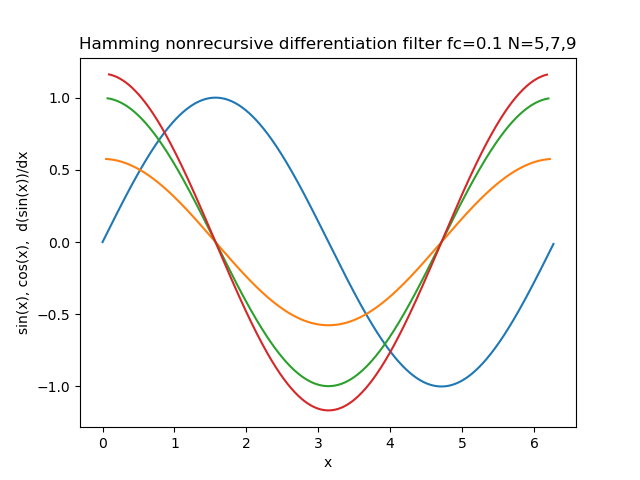
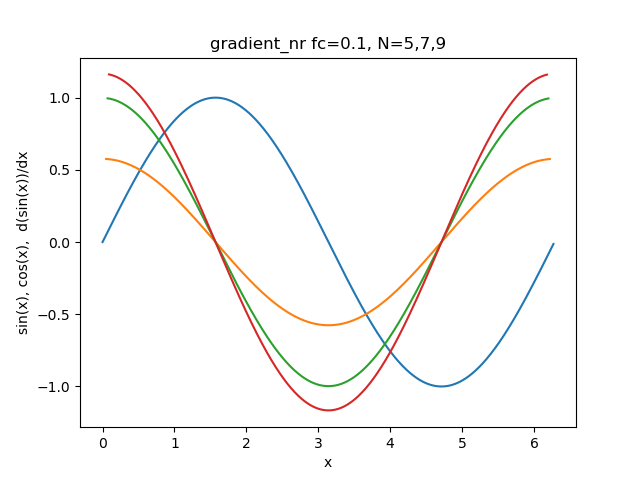
Update doc

Changed region(s): [[0.125, 0.0625, 0.9062, 0.125]]

diff --git a/doc/figures/fig_5_8_lowpass_nr.py b/doc/figures/fig_5_8_lowpass_nr.py
@@ -8,40 +8,76 @@ import numpy as np
 import matplotlib.pyplot as plt
 import math
 import random
+import io
+
+
+def print_to_string(x):
+    output = io.StringIO()
+    print("%.3f" % x, file=output, end='')
+    contents = output.getvalue()
+    output.close()
+    return contents
+
+
+def distance(x, y):
+    s = sum([(xi - yi) ** 2 for xi, yi in zip(x, y)])
+    return round(s / len(x) * 1000, 3)
+
+
+fc = 0.1
+nfp = 7
+nnfp = (2 * nfp)
+noise = 1 / 100
 
 dx = 0.01
 x = np.array([i * dx for i in range(2 * 314)])
 y = np.array([math.sin(xi) for xi in x])
 z = np.array([math.cos(xi) for xi in x])
 
-r = np.array([yi + (random.random() - 0.5) / 100 for yi in y])
-drdx_7 = hdfg.gradient_nr(r, dx, 0.1, 7)
+r = np.array([yi + (random.random() - 0.5) * noise for yi in y])
+dist_r = distance(y, r)
 
-s1 = hdfl.lowpass_nr(r, 0.1, 7)
-ds1dx_7 = hdfg.gradient_nr(s1, dx, 0.1, 7)
-s2 = hdfl.lowpass_nr(s1, 0.1, 7)
-ds2dx_7 = hdfg.gradient_nr(s2, dx, 0.1, 7)
+drdx = hdfg.gradient_nr(r, dx, fc, nfp)
+dist_d = distance(z[nfp:-nfp], drdx[nfp:-nfp])
 
-plt.title("Hamming nonrecursive differentiation filter fc=0.1 N=7")
+s1 = hdfl.lowpass_nr(r, fc, nfp)
+dist_s1 = distance(y, s1)
+
+ds1dx = hdfg.gradient_nr(s1, dx, fc, nfp)
+dist_d1 = distance(z[nnfp:-nnfp], ds1dx[nnfp:-nnfp])
+
+s2 = hdfl.lowpass_nr(s1, fc, nfp)
+dist_s2 = distance(y, s2)
+ds2dx = hdfg.gradient_nr(s2, dx, fc, nfp)
+dist_d2 = distance(z[nnfp:-nnfp], ds2dx[nnfp:-nnfp])
+
+plt.title("gradient_nr fc=0.1, N=7, dist f="
+          + print_to_string(dist_r) + ", dist df="
+          + print_to_string(dist_d))
 plt.xlabel("x")
-plt.ylabel("sin(x)+random()/50, cos(x),  d(sin(x))/dx")
-plt.plot(x, r, x, z, x[7:-7], drdx_7[7:-7])
+plt.ylabel("sin(x)+random()/100, cos(x), d(sin(x))/dx")
+plt.plot(x, r, x, z, x[nfp:-nfp], drdx[nfp:-nfp])
 plt.show()
 
-plt.title("Hamming Low-Pass filter fc=0.1 N=7")
+plt.title("lowpass_nr fc=0.1, N=7, dist f="
+          + print_to_string(dist_s1))
 plt.xlabel("x")
-plt.ylabel("sin(x)+random()/50")
-plt.plot(x, r, x, s1)
+plt.ylabel("sin(x)+random()/100")
+plt.plot(x, r, x[nfp:-nfp], s1[nfp:-nfp])
 plt.show()
 
-plt.title("Hamming nonrecursive differentiation filter fc=0.1 N=7")
+plt.title("gradient_nr fc=0.1, N=7, dist f="
+          + print_to_string(dist_s1) + ", dist df="
+          + print_to_string(dist_d1))
 plt.xlabel("x")
-plt.ylabel("sin(x)+random()/50, cos(x),  d(sin(x))/dx")
-plt.plot(x, s1, x, z, x[7:-7], ds1dx_7[7:-7])
+plt.ylabel("sin(x)+random()/100, cos(x), d(sin(x))/dx")
+plt.plot(x[nfp:-nfp], s1[nfp:-nfp], x, z, x[nnfp:-nnfp], ds1dx[nnfp:-nnfp])
 plt.show()
 
-plt.title("Hamming nonrecursive differentiation filter fc=0.1 N=7")
+plt.title("gradient_nr fc=0.1, N=7, dist f="
+          + print_to_string(dist_s2) + ", dist df="
+          + print_to_string(dist_d2))
 plt.xlabel("x")
-plt.ylabel("sin(x)+random()/50, cos(x),  d(sin(x))/dx")
-plt.plot(x, s2, x, z, x[7:-7], ds2dx_7[7:-7])
+plt.ylabel("sin(x)+random()/100, cos(x), d(sin(x))/dx")
+plt.plot(x[nfp:-nfp], s2[nfp:-nfp], x, z, x[nnfp:-nnfp], ds2dx[nnfp:-nnfp])
 plt.show()

diff --git a/doc/figures/fig_9_12_lowpass_mt.py b/doc/figures/fig_9_12_lowpass_mt.py
@@ -8,41 +8,77 @@ import numpy as np
 import matplotlib.pyplot as plt
 import math
 import random
+import io
 
+
+def print_to_string(x):
+    output = io.StringIO()
+    print("%.3f" % x, file=output, end='')
+    contents = output.getvalue()
+    output.close()
+    return contents
+
+
+def distance(x, y):
+    s = sum([(xi - yi) ** 2 for xi, yi in zip(x, y)])
+    return round(s / len(x) * 1000, 3)
+
+
+fc = 0.1
+nfp = 7
+nnfp = (2 * nfp)
+noise = 1 / 100
 
 dx = 0.01
 x = np.array([i * dx for i in range(2 * 314)])
 y = np.array([math.sin(xi) for xi in x])
 z = np.array([math.cos(xi) for xi in x])
 
-r = np.array([yi + (random.random() - 0.5) / 100 for yi in y])
-drdx_7 = hdfg.gradient_nr(r, dx, 0.1, 7)
+r = np.array([yi + (random.random() - 0.5) * noise for yi in y])
+dist_r = distance(y, r)
+
+drdx = hdfg.gradient_nr(r, dx, fc, nfp)
+dist_d = distance(z[nfp:-nfp], drdx[nfp:-nfp])
 
 s1 = hdfl.lowpass_mt(r, '3_1')
-ds1dx_7 = hdfg.gradient_nr(s1, dx, 0.1, 7)
-s2 = hdfl.lowpass_mt(s1, '3_1')
-ds2dx_7 = hdfg.gradient_nr(s2, dx, 0.1, 7)
+dist_s1 = distance(y, s1)
 
-plt.title("Hamming nonrecursive differentiation filter fc=0.1 N=7")
+ds1dx = hdfg.gradient_nr(s1, dx, fc, nfp)
+dist_d1 = distance(z[nnfp:-nnfp], ds1dx[nnfp:-nnfp])
+
+s2 = hdfl.lowpass_mt(s1, '3_1')
+dist_s2 = distance(y, s2)
+
+ds2dx = hdfg.gradient_nr(s2, dx, fc, nfp)
+dist_d2 = distance(z[nnfp:-nnfp], ds2dx[nnfp:-nnfp])
+
+plt.title("gradient_nr fc=0.1, N=7, dist f="
+          + print_to_string(dist_r) + ", dist df="
+          + print_to_string(dist_d))
 plt.xlabel("x")
-plt.ylabel("sin(x)+random()/50, cos(x),  d(sin(x))/dx")
-plt.plot(x, r, x, z, x[7:-7], drdx_7[7:-7])
+plt.ylabel("sin(x)+random()/100, cos(x),  d(sin(x))/dx")
+plt.plot(x, r, x, z, x[nfp:-nfp], drdx[nfp:-nfp])
 plt.show()
 
-plt.title("Hamming Low-Pass monotone filter p=3 q=1")
+plt.title("lowpass_mt p=3, q=1, dist f="
+          + print_to_string(dist_s1))
 plt.xlabel("x")
-plt.ylabel("sin(x)+random()/50")
+plt.ylabel("sin(x)+random()/100")
 plt.plot(x, r, x, s1)
 plt.show()
 
-plt.title("Hamming nonrecursive differentiation filter fc=0.1 N=7")
+plt.title("gradient_nr fc=0.1, N=7, dist f="
+          + print_to_string(dist_s1) + ", dist df="
+          + print_to_string(dist_d1))
 plt.xlabel("x")
 plt.ylabel("sin(x)+random()/50, cos(x),  d(sin(x))/dx")
-plt.plot(x, s1, x, z, x[7:-7], ds1dx_7[7:-7])
+plt.plot(x[nfp:-nfp], s1[nfp:-nfp], x, z, x[nnfp:-nnfp], ds1dx[nnfp:-nnfp])
 plt.show()
 
-plt.title("Hamming nonrecursive differentiation filter fc=0.1 N=7")
+plt.title("gradient_nr fc=0.1, N=7, dist f="
+          + print_to_string(dist_s2) + ", dist df="
+          + print_to_string(dist_d2))
 plt.xlabel("x")
-plt.ylabel("sin(x)+random()/50, cos(x),  d(sin(x))/dx")
-plt.plot(x, s2, x, z, x[7:-7], ds2dx_7[7:-7])
+plt.ylabel("sin(x)+random()/100, cos(x),  d(sin(x))/dx")
+plt.plot(x[nfp:-nfp], s2[nfp:-nfp], x, z, x[nnfp:-nnfp], ds2dx[nnfp:-nnfp])
 plt.show()

diff --git a/doc/figures/fig_1_4_gradient_nr.py b/doc/figures/fig_1_4_gradient_nr.py
@@ -7,6 +7,23 @@ import numpy as np
 import matplotlib.pyplot as plt
 import math
 import random
+import io
+
+
+def print_to_string(x):
+    output = io.StringIO()
+    print("%.3f" % x, file=output, end='')
+    contents = output.getvalue()
+    output.close()
+    return contents
+
+
+def distance(x, y):
+    s = sum([(xi - yi) ** 2 for xi, yi in zip(x, y)])
+    return round(s / len(x) * 1000, 3)
+
+
+noise = 1 / 100
 
 dx = 0.01
 x = np.array([i * dx for i in range(2 * 314)])
@@ -17,23 +34,29 @@ dydx_5 = hdfg.gradient_nr(y, dx, 0.1, 5)
 dydx_7 = hdfg.gradient_nr(y, dx, 0.1, 7)
 dydx_9 = hdfg.gradient_nr(y, dx, 0.1, 9)
 
-r = np.array([yi + (random.random() - 0.5) / 100 for yi in y])
+r = np.array([yi + (random.random() - 0.5) * noise for yi in y])
+dist_r = distance(y, r)
+
 drdx_7 = hdfg.gradient_nr(r, dx, 0.1, 7)
+dist_d = distance(z[7:-7], drdx_7[7:-7])
+
 drdx_n = np.gradient(r, dx)
 
-plt.title("Hamming nonrecursive differentiation filter fc=0.1 N=5,7,9")
+plt.title("gradient_nr fc=0.1, N=5,7,9")
 plt.xlabel("x")
 plt.ylabel("sin(x), cos(x),  d(sin(x))/dx")
 plt.plot(x, y, x[5:-5], dydx_5[5:-5], x[7:-7], dydx_7[7:-7], x[9:-9], dydx_9[9:-9])
 plt.show()
 
-plt.title("Hamming nonrecursive differentiation filter fc=0.1 N=7")
+plt.title("gradient_nr fc=0.1, N=7")
 plt.xlabel("x")
 plt.ylabel("sin(x), cos(x),  d(sin(x))/dx")
 plt.plot(x, y, x, z, x[7:-7], dydx_7[7:-7])
 plt.show()
 
-plt.title("Hamming nonrecursive differentiation filter fc=0.1 N=7")
+plt.title("gradient_nr fc=0.1, N=7, dist f="
+          + print_to_string(dist_r) + ", dist df="
+          + print_to_string(dist_d))
 plt.xlabel("x")
 plt.ylabel("sin(x)+random()/50, cos(x),  d(sin(x))/dx")
 plt.plot(x, r, x, z, x[7:-7], drdx_7[7:-7])

diff --git a/hamming_digital_filters/lowpass.py b/hamming_digital_filters/lowpass.py
@@ -8,12 +8,24 @@
 import math
 
 
+def lowpass_apply(f, coef, nfp):
+    sf = [0.0] * len(f)
+    for i in range(0, len(f) - 2 * nfp):
+        s = 0.0
+        for j in range(0, 2 * nfp + 1):
+            s = s + coef[j] * f[i + j]
+        sf[nfp + i] = s
+    for i in range(0, nfp):
+        sf[i] = f[i]
+        sf[-1 - i] = f[-1 - i]
+    return sf
+
+
 def lowpass_nr(f, fc=0.2, nfp=5):
     ''' Chapter 6.2 A Low-Pass Filter Design. Nonrecursive. '''
 
     coef = [0.0] * (2 * nfp + 1)
     coef[nfp] = 2.0 * fc
-    sf = [0.0] * len(f)
 
     for k in range(1, nfp):
         xd = math.pi * k
@@ -23,13 +35,7 @@ def lowpass_nr(f, fc=0.2, nfp=5):
         coef[nfp + k] = c1 * c2
         coef[nfp - k] = c1 * c2
 
-    for i in range(0, len(f) - 2 * nfp):
-        s = 0.0
-        for j in range(0, 2 * nfp + 1):
-            s = s + coef[j] * f[i + j]
-        sf[nfp + i] = s
-
-    return sf
+    return lowpass_apply(f, coef, nfp)
 
 
 def lowpass_mt(f, pq='3_1'):
@@ -39,12 +45,5 @@ def lowpass_mt(f, pq='3_1'):
     coef_3_1 = [frac * c for c in [-1, -5, -5, 20, 70, 98, 70, 20, -5, -5, -1]]
     coef = {'3_1': coef_3_1}
     nfp = (len(coef[pq]) - 1) // 2
-    sf = [0.0] * len(f)
 
-    for i in range(0, len(f) - 2 * nfp):
-        s = 0.0
-        for j in range(0, 2 * nfp + 1):
-            s = s + coef[pq][j] * f[i + j]
-        sf[nfp + i] = s
-
-    return sf
+    return lowpass_apply(f, coef, nfp)
